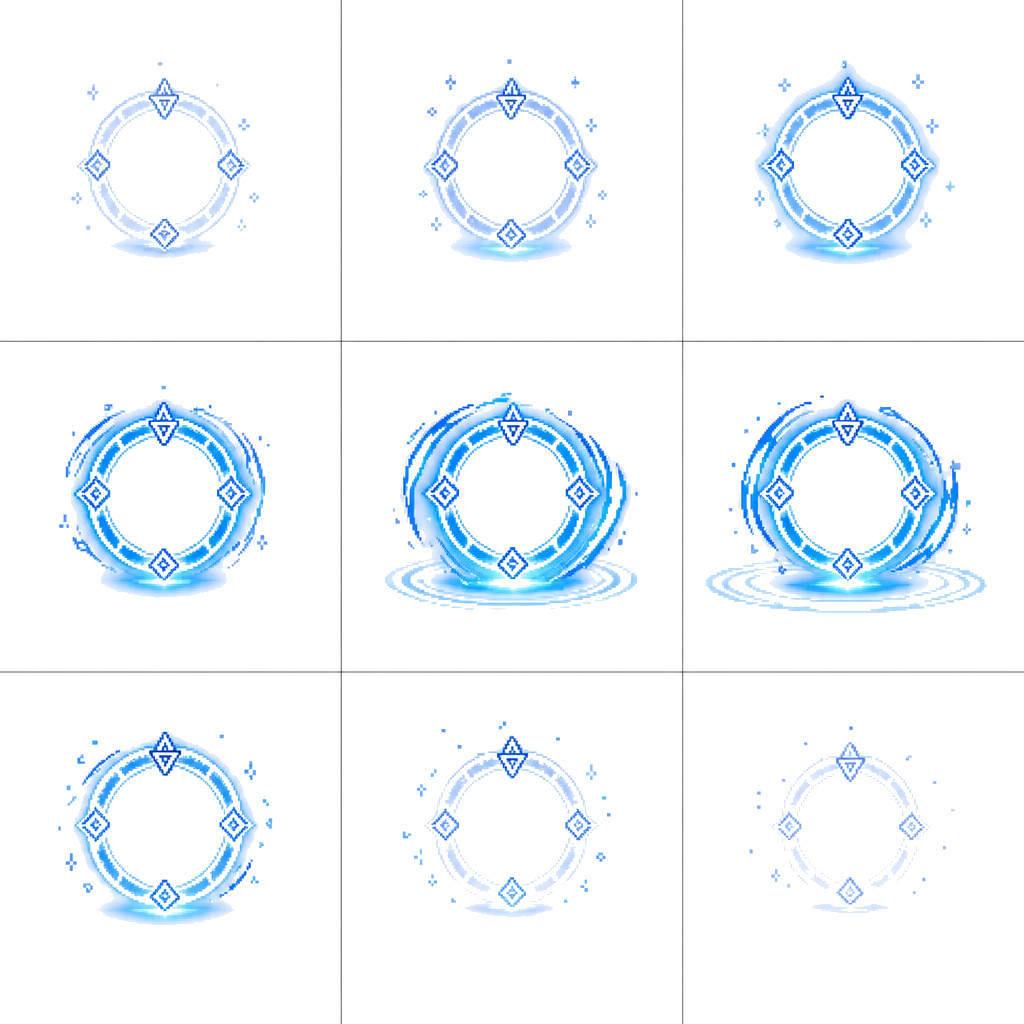
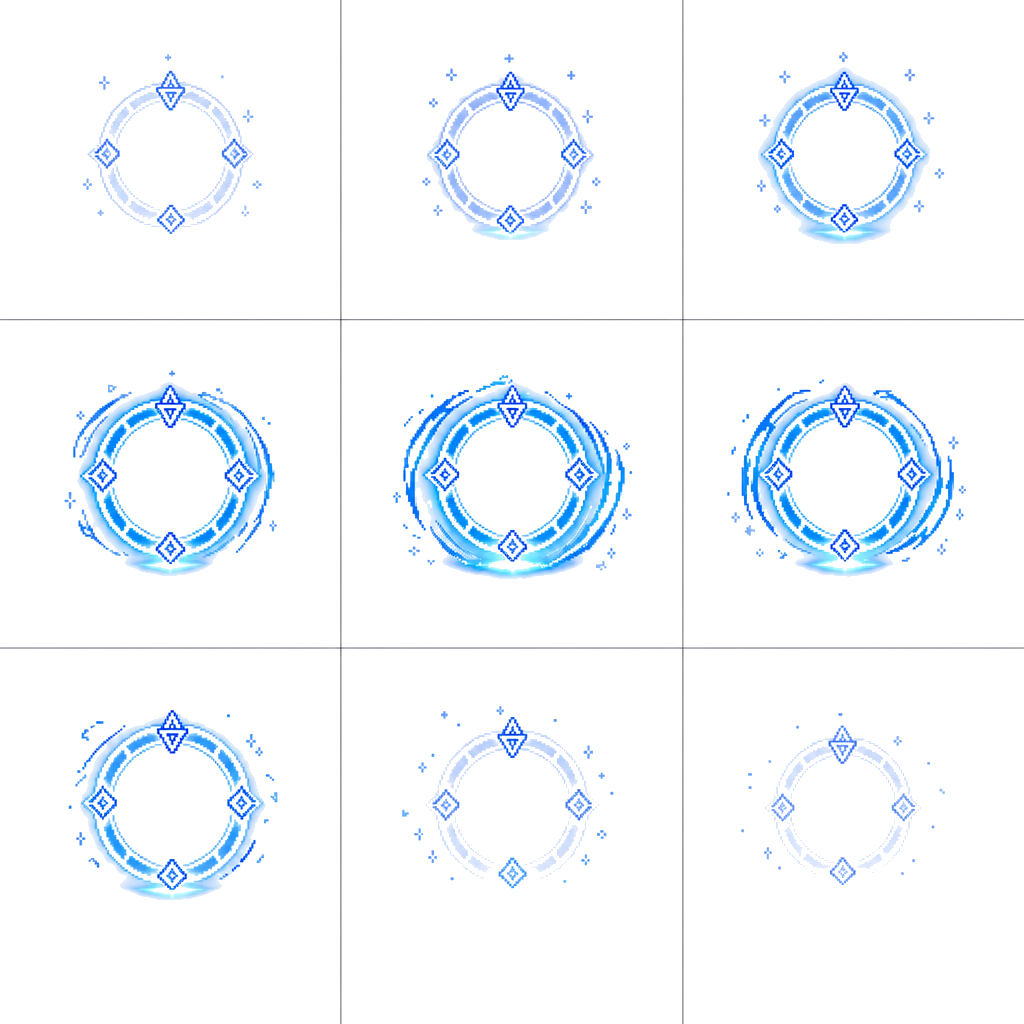
시작화면 추가

diff --git a/Renderer.cs b/Renderer.cs
@@ -23,6 +23,7 @@ namespace DebugHeroFileDungeonRPG
         private static readonly Dictionary<string, Image> playerMotionSheetCache = new Dictionary<string, Image>();
         private static readonly Dictionary<string, Rectangle> playerActionTrimCache = new Dictionary<string, Rectangle>();
         private static Image playerStillSwordImage;
+        private static Image playerShieldImage;
         private static Image normalMonsterSheet = null;
 
 
@@ -1140,7 +1141,92 @@ namespace DebugHeroFileDungeonRPG
 
             return playerStillSwordImage;
         }
+        private static Rectangle GetPlayerShieldSourceRect(Image sheet, int frame)
+        {
+            int columns = 3;
+            int rows = 3;
+            int totalFrames = columns * rows;
 
+            frame %= totalFrames;
+            if (frame < 0) frame = 0;
+
+            int col = frame % columns;
+            int row = frame / columns;
+
+            int x1 = (int)Math.Round(col * sheet.Width / (double)columns);
+            int x2 = (int)Math.Round((col + 1) * sheet.Width / (double)columns);
+            int y1 = (int)Math.Round(row * sheet.Height / (double)rows);
+            int y2 = (int)Math.Round((row + 1) * sheet.Height / (double)rows);
+
+            // 칸 구분선이 같이 잘리는 것 방지
+            int padding = 3;
+
+            return Rectangle.FromLTRB(
+                x1 + padding,
+                y1 + padding,
+                x2 - padding,
+                y2 - padding
+            );
+        }
+        private static Image GetPlayerShieldImage()
+        {
+            if (playerShieldImage != null)
+                return playerShieldImage;
+
+            string path = Path.Combine(
+                AppDomain.CurrentDomain.BaseDirectory,
+                "Assets",
+                "Caracters",
+                "Player",
+                "player_shield.png"
+            );
+
+            if (File.Exists(path))
+                playerShieldImage = Image.FromFile(path);
+
+            return playerShieldImage;
+        }
+        private static bool DrawPlayerShieldOverlay(Graphics g, PlayerState p, float drawX, float baseY)
+        {
+            Image shield = GetPlayerShieldImage();
+
+            if (shield == null)
+                return false;
+
+            // DefenseTicks = 100에서 시작한다고 가정
+            // 시간이 지날수록 0~8번 프레임 순서대로 재생
+            int elapsed = Math.Max(0, 100 - p.DefenseTicks);
+            int frame = (elapsed / 4) % 9;
+
+            Rectangle src = GetPlayerShieldSourceRect(shield, frame);
+
+            // 크기 조절
+            float scale = 0.60f;
+
+            int drawW = (int)(src.Width * scale);
+            int drawH = (int)(src.Height * scale);
+
+            // 캐릭터 중심보다 살짝 위에 방어막 중심 배치
+            float shieldCenterY = baseY - 62f;
+
+            Rectangle dst = new Rectangle(
+                (int)(drawX - drawW / 2),
+                (int)(shieldCenterY - drawH / 2),
+                drawW,
+                drawH
+            );
+
+            GraphicsState state = g.Save();
+
+            g.InterpolationMode = InterpolationMode.NearestNeighbor;
+            g.PixelOffsetMode = PixelOffsetMode.Half;
+
+            g.DrawImage(shield, dst, src, GraphicsUnit.Pixel);
+
+            g.Restore(state);
+
+            return true;
+        }
         private static void DrawPlayerStillSprite(Graphics g, PlayerState p, float drawX, float baseY, int facing)
         {
             Image img = GetPlayerStillSwordImage();
@@ -1332,11 +1418,11 @@ namespace DebugHeroFileDungeonRPG
                 using (SolidBrush aura = new SolidBrush(Color.FromArgb(walking ? 24 : 18, 70, 180, 255)))
                     g.FillEllipse(aura, (int)drawX - 54, (int)baseY - 112, 108, 120);
             }
-            if (p.DefenseTicks > 0)
+            /*if (p.DefenseTicks > 0)
             {
                 using (Pen shield = new Pen(Color.FromArgb(150, 120, 210, 255), 3f))
                     g.DrawEllipse(shield, drawX - 58, baseY - 120, 116, 130);
-            }
+            }*/
             if (p.ActionState == PlayerActionState.Die)
             {
                 DrawPlayerMotionFrame(g, p, drawX, baseY, facing, "player_gameover.png");
@@ -1357,7 +1443,10 @@ namespace DebugHeroFileDungeonRPG
             {
                 DrawPlayerStillSprite(g, p, drawX, baseY + bob, facing);
             }
-
+            if (p.DefenseTicks > 0)
+            {
+                DrawPlayerShieldOverlay(g, p, drawX, baseY);
+            }
             using (Font f = F(7.5f, FontStyle.Bold))
             using (SolidBrush b = new SolidBrush(Color.White))
             using (SolidBrush back = new SolidBrush(Color.FromArgb(150, 0, 0, 0)))

diff --git a/MainForm.Input.cs b/MainForm.Input.cs
@@ -83,7 +83,6 @@ namespace DebugHeroFileDungeonRPG
                 }
                 else if (e.KeyCode == Keys.R)
                 {
-                    PlayerMovementSystem.StartSkillAnimation(player, 3);
                     CastSkill(3);
                 }
                 else if (e.KeyCode == Keys.D) UseHpPotion();
